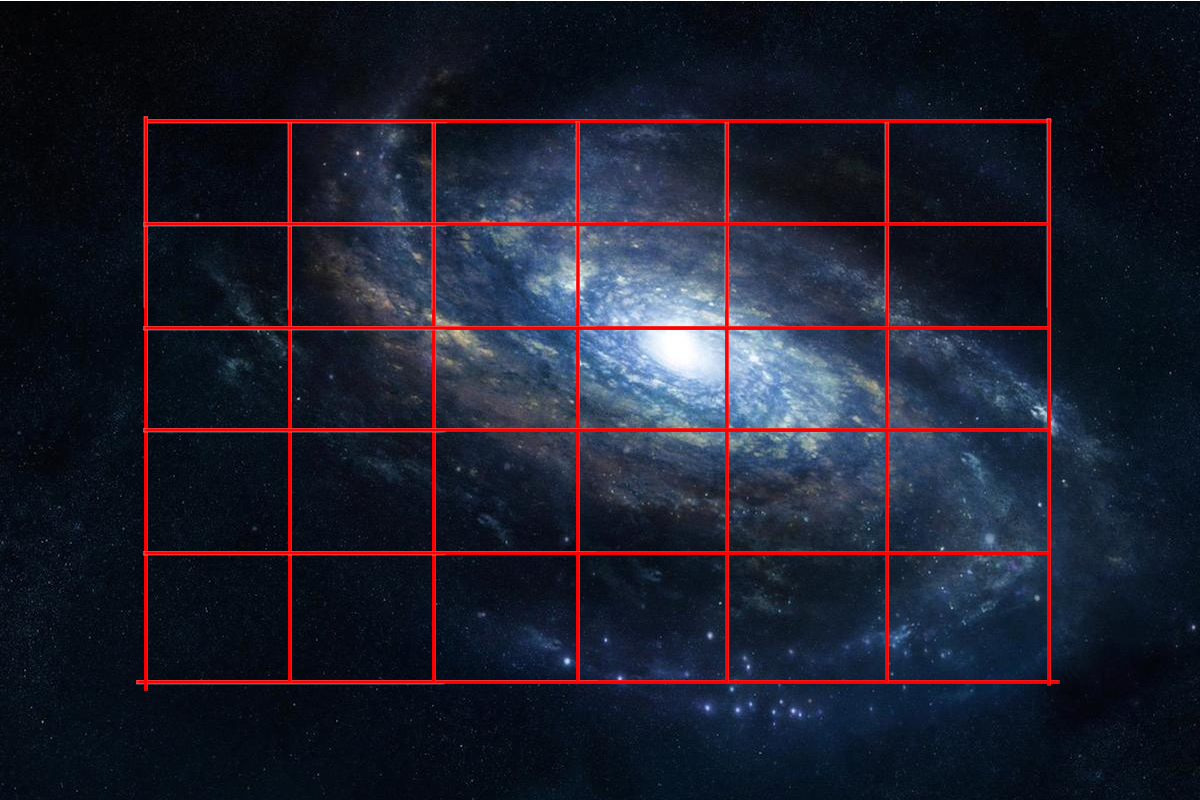
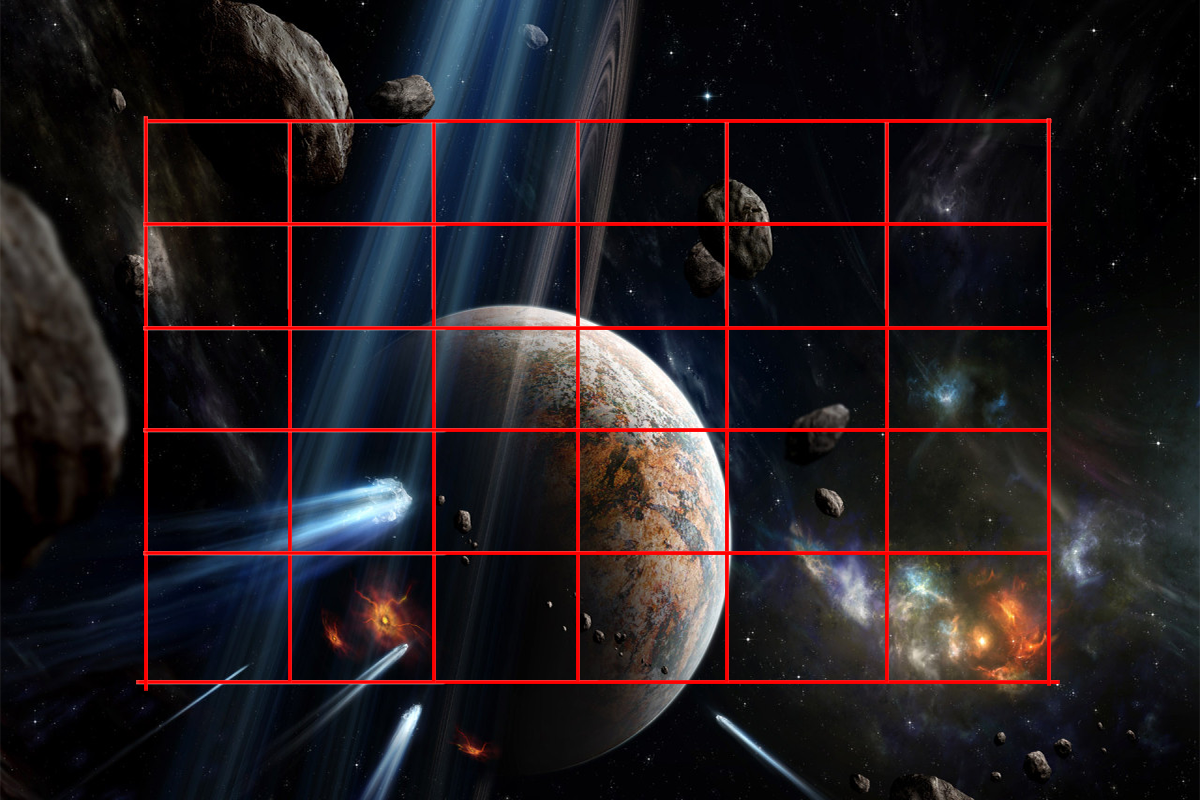
Added new Background images
Now each planet has a different background subject to change upon team
review

diff --git a/game/CaptainMath.py b/game/CaptainMath.py
@@ -938,6 +938,7 @@ class CaptainMath(spyral.Scene):
             global ProwNum
             global PcolNum
             global ishowToThemeNeeded
+            global currentPlanet
             self.howToCount = 1
             ProwNum = 0
             PcolNum = 0
@@ -964,7 +965,14 @@ class CaptainMath(spyral.Scene):
             playerLives = 2
             isBlackholeSet = False
             didCollideWithBlackHole = False
-            self.background = spyral.Image("images/fullLevels/planet2_Board.png")
+            if(currentPlanet == 1):
+              self.background = spyral.Image("images/fullLevels/Planet1_Board.png")
+            elif(currentPlanet == 2):
+              self.background = spyral.Image("images/fullLevels/Planet2_Board.png")
+            elif(currentPlanet == 3):
+              self.background = spyral.Image("images/fullLevels/Planet3_Board.png")
+            elif(currentPlanet == 4):
+              self.background = spyral.Image("images/fullLevels/Planet4_Board.png")
 
             #Plays the main theme for the game
             pygame.mixer.init()
